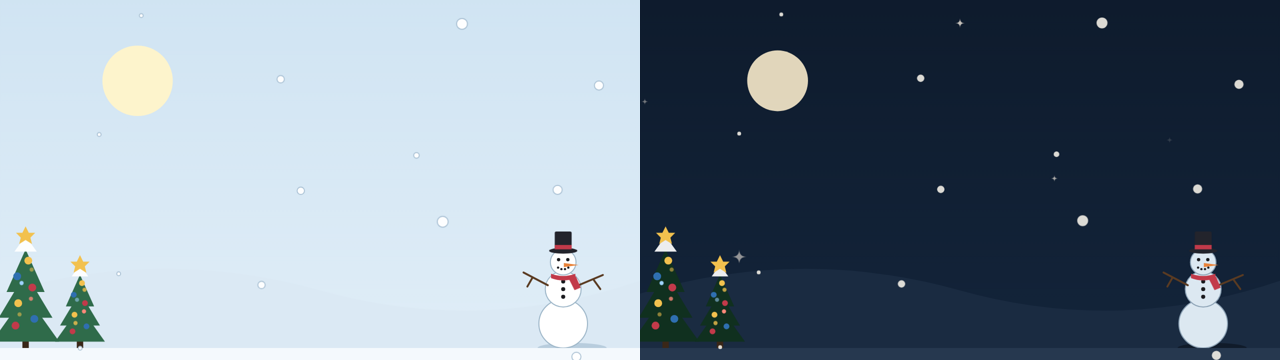
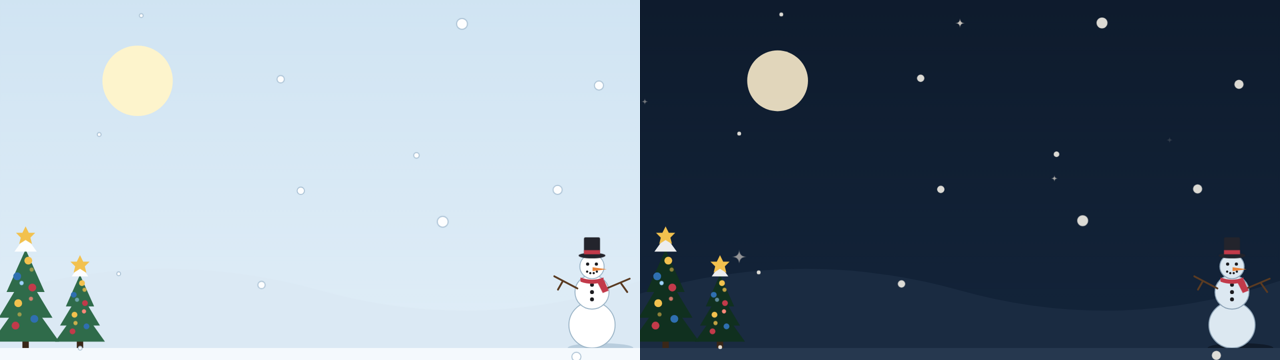
snowman-theme 0.1.5: the snowman a little to the right and smaller, clear of the glass
Claude-Session: https://claude.ai/code/session_019US2gsjfkmf3Eo2ufavub8

Changed region(s): [[0.4062, 0.6417, 0.5, 0.9778], [0.9062, 0.6722, 1.0, 0.9778]]

diff --git a/plugins/snowman-theme/hooks/register.tsx b/plugins/snowman-theme/hooks/register.tsx
@@ -165,7 +165,7 @@ const SCENE = [
   `<path class="hill" d="M0 ${G - 34} Q100 ${G - 64} 200 ${G - 36} T400 ${G - 42} L400 ${G} L0 ${G} Z"/>`,
   fir(16, 70, 0),
   fir(50, 52, 1),
-  snowman(352, 0.8, true, '#c23a4a', 0),
+  snowman(370, 0.76, true, '#c23a4a', 0),
   '<rect class="gnd" x="0" y="' + G + '" width="400" height="295"/>',
   FLAKES,
   '</svg>',
